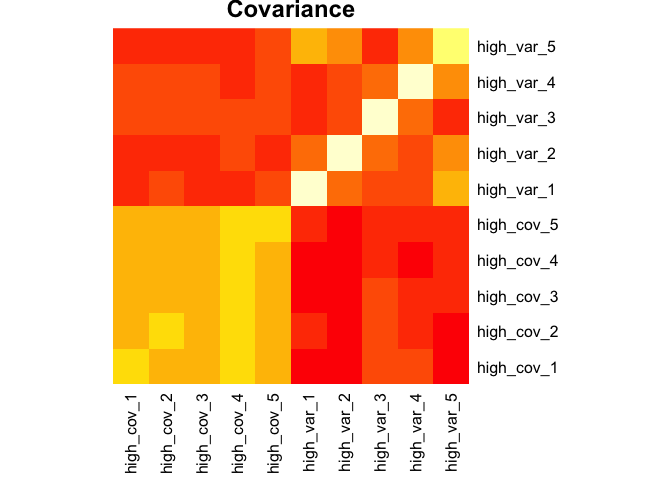
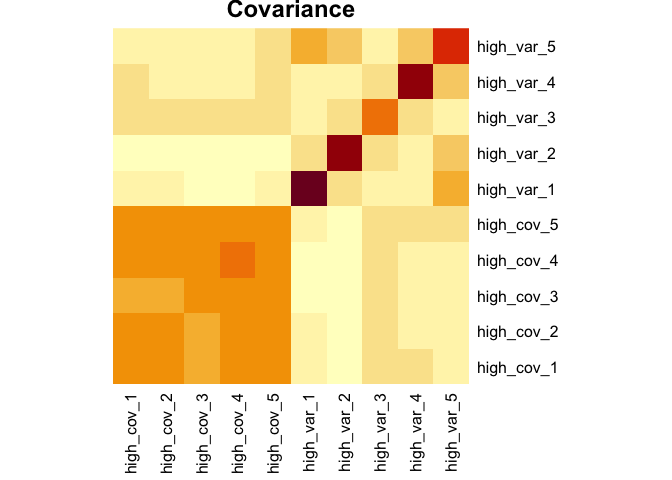
minor changes to readme

diff --git a/README.md b/README.md
@@ -28,8 +28,8 @@ install.packages("holodeck)
 Development version:
 
 ``` r
-# install.packages("devtools")
-devtools::install_github("Aariq/holodeck")
+# install.packages("remotes")
+remotes::install_github("Aariq/holodeck")
 ```
 
 ## Load packages
@@ -69,15 +69,10 @@ Explore covariance structure visually. The diagonal is variance.
 ``` r
 df1 %>% 
   cov() %>%
-  heatmap(Rowv = NA, Colv = NA, margins = c(6,6), main = "Covariance")
+  heatmap(Rowv = NA, Colv = NA, symm = TRUE, margins = c(6,6), main = "Covariance")
 ```
 
 <img src="man/figures/README-unnamed-chunk-2-1.png" width="100%" />
-
-``` r
-#for interactive heatmap, try iheatmapr package:
-  # iheatmap(row_labels = TRUE, col_labels = TRUE, name = "cov or var")
-```
 
 Now let’s make this dataset a little more complex. We can add a factor
 variable, some variables that discriminate between the levels of that
@@ -101,22 +96,22 @@ df2
 #>  2 a          -1.50    -1.65       NA         -1.93       -1.27      1.00  
 #>  3 a           1.13     0.655       0.980      1.41        0.345    -1.90  
 #>  4 a           0.982    0.740       1.16       1.14        0.866     1.71  
-#>  5 a          -0.773   -1.31       -1.22      -1.21       -1.25     -0.576 
-#>  6 a           0.302   NA          -0.309      0.0725      0.725     2.25  
-#>  7 a          NA        0.00163     0.0596    -0.542      -0.269     2.87  
-#>  8 b           2.16     2.47        1.38      NA          NA         0.146 
-#>  9 b          NA       NA          -0.529     -0.842      -1.04     NA     
+#>  5 a          -0.773   NA          -1.22      -1.21       -1.25     -0.576 
+#>  6 a           0.302    0.130      -0.309      0.0725     NA        NA     
+#>  7 a          -0.117    0.00163     0.0596    -0.542      -0.269     2.87  
+#>  8 b           2.16     2.47       NA          1.62       NA         0.146 
+#>  9 b          -0.268   -0.509      -0.529     -0.842      -1.04     NA     
 #> 10 b           0.609    0.195       0.720      0.930       0.595     0.0765
-#> 11 b           1.81     1.15        1.43       1.09        1.39     -0.927 
+#> 11 b           1.81    NA           1.43       1.09        1.39     -0.927 
 #> 12 b           0.954    0.234       0.247      0.248       0.751     2.77  
-#> 13 b          -1.03    -1.24       -1.70      -1.27       -1.64      1.34  
-#> 14 b          -0.180   NA           0.177      0.433      NA         1.20  
+#> 13 b          -1.03    -1.24       -1.70      NA          -1.64      1.34  
+#> 14 b          -0.180    0.380       0.177      0.433       0.550     1.20  
 #> 15 c          -0.214   -0.390      -0.476     -0.878      -0.328     3.18  
-#> 16 c           0.827    0.556       0.620      0.491       0.814     1.91  
-#> 17 c          -0.399   -0.862      -0.385     -0.935      NA        -0.787 
-#> 18 c          -1.09    NA          -0.720     -1.88       -1.76     -1.76  
-#> 19 c          -0.181   -0.155      -0.774      0.0395     NA         0.741 
-#> 20 c           0.882    0.366       0.758      1.24        0.838     0.182 
+#> 16 c           0.827    0.556       0.620      0.491      NA         1.91  
+#> 17 c          -0.399   -0.862      -0.385     -0.935      -0.802    -0.787 
+#> 18 c          -1.09    -1.32       -0.720     NA          -1.76     -1.76  
+#> 19 c          -0.181   -0.155      -0.774      0.0395     -0.770     0.741 
+#> 20 c           0.882   NA           0.758      1.24        0.838     0.182 
 #> # … with 14 more variables: high_var_2 <dbl>, high_var_3 <dbl>,
 #> #   high_var_4 <dbl>, high_var_5 <dbl>, discr_1 <dbl>, discr_2 <dbl>,
 #> #   discr_3 <dbl>, discr_4 <dbl>, discr_5 <dbl>, discr2_1 <dbl>,
@@ -127,36 +122,43 @@ df2
 
 ``` r
 pca <- opls(select(df2, -factor), printL = FALSE, plotL = FALSE)
+#> Warning: 'printL' argument is deprecated; use 'info.txtC' instead
+#> Warning: 'plotL' argument is deprecated; use 'fig.pdfC' instead
   
 plot(pca, parAsColFcVn = df2$factor, typeVc = "x-score")
 #> Warning: Character 'parAsColFcVn' set to a factor
+```
+
+<img src="man/figures/README-unnamed-chunk-4-1.png" width="100%" />
+
+``` r
 
 getLoadingMN(pca) %>%
   as_tibble(rownames = "variable") %>% 
   arrange(desc(abs(p1)))
 #> # A tibble: 20 x 4
-#>    variable         p1       p2        p3
-#>    <chr>         <dbl>    <dbl>     <dbl>
-#>  1 high_cov_3  0.444   -0.0223  -0.0178  
-#>  2 high_cov_4  0.412    0.0233   0.0301  
-#>  3 high_cov_1  0.403    0.0335  -0.0248  
-#>  4 high_cov_5  0.389    0.00518 -0.00792 
-#>  5 high_cov_2  0.372    0.00949 -0.000838
-#>  6 discr2_1    0.225   -0.0295   0.487   
-#>  7 high_var_2 -0.201   -0.140   -0.0215  
-#>  8 discr_1    -0.180   -0.309    0.0888  
-#>  9 discr2_4    0.124   -0.230   -0.235   
-#> 10 discr_5     0.121   -0.418   -0.00171 
-#> 11 high_var_3  0.121    0.0872  -0.208   
-#> 12 discr_4    -0.0761  -0.402    0.0376  
-#> 13 high_var_5 -0.0535  -0.00698 -0.393   
-#> 14 high_var_4  0.0457  -0.110   -0.544   
-#> 15 discr2_3    0.0330  -0.198   -0.00447 
-#> 16 discr_2     0.0207  -0.373    0.111   
-#> 17 high_var_1 -0.0199   0.0715  -0.0182  
-#> 18 discr2_2   -0.00666  0.182   -0.419   
-#> 19 discr2_5    0.00402 -0.324   -0.0749  
-#> 20 discr_3     0.00217 -0.389   -0.0967
+#>    variable         p1      p2       p3
+#>    <chr>         <dbl>   <dbl>    <dbl>
+#>  1 high_cov_1  0.377    0.194   0.0800 
+#>  2 high_cov_4  0.375    0.215   0.0202 
+#>  3 high_cov_3  0.368    0.225   0.133  
+#>  4 high_cov_5  0.362    0.186  -0.0539 
+#>  5 high_cov_2  0.348    0.227   0.0108 
+#>  6 discr_1    -0.306    0.219   0.0135 
+#>  7 discr2_1    0.290    0.0895 -0.322  
+#>  8 discr_4    -0.220    0.329  -0.120  
+#>  9 high_var_3  0.169   -0.142   0.184  
+#> 10 discr_3    -0.157    0.324  -0.176  
+#> 11 discr2_5   -0.153    0.242   0.318  
+#> 12 discr_2    -0.116    0.350  -0.210  
+#> 13 discr2_4   -0.0572   0.212   0.292  
+#> 14 discr2_2    0.0518  -0.133  -0.0374 
+#> 15 discr2_3   -0.0513   0.0717  0.00649
+#> 16 high_var_2 -0.0512  -0.0938 -0.442  
+#> 17 discr_5    -0.0448   0.424  -0.0118 
+#> 18 high_var_4 -0.0236   0.220   0.0444 
+#> 19 high_var_5  0.00619  0.0503 -0.434  
+#> 20 high_var_1 -0.00483 -0.0231 -0.414
 ```
 
 It looks like PCA mostly picks up on the variables with high covariance,
@@ -168,8 +170,15 @@ analysis.
 
 ``` r
 plsda <- opls(select(df2, -factor), df2$factor, printL = FALSE, plotL = FALSE, predI = 2)
+#> Warning: 'printL' argument is deprecated; use 'info.txtC' instead
+#> Warning: 'plotL' argument is deprecated; use 'fig.pdfC' instead
 
 plot(plsda, typeVc = "x-score")
+```
+
+<img src="man/figures/README-unnamed-chunk-5-1.png" width="100%" />
+
+``` r
 
 getVipVn(plsda) %>% 
   tibble::enframe(name = "variable", value = "VIP") %>% 
@@ -177,26 +186,26 @@ getVipVn(plsda) %>%
 #> # A tibble: 20 x 2
 #>    variable     VIP
 #>    <chr>      <dbl>
-#>  1 discr_5    1.76 
-#>  2 discr_2    1.64 
-#>  3 discr_4    1.58 
-#>  4 discr_3    1.50 
-#>  5 discr_1    1.30 
-#>  6 discr2_5   1.16 
-#>  7 discr2_4   1.05 
-#>  8 high_cov_2 0.995
-#>  9 high_var_5 0.989
-#> 10 high_cov_1 0.872
-#> 11 discr2_3   0.819
-#> 12 discr2_2   0.727
-#> 13 high_var_2 0.680
-#> 14 high_var_3 0.494
-#> 15 discr2_1   0.469
-#> 16 high_cov_3 0.450
-#> 17 high_cov_4 0.406
-#> 18 high_var_4 0.203
-#> 19 high_var_1 0.202
-#> 20 high_cov_5 0.105
+#>  1 discr_5    1.73 
+#>  2 discr_2    1.66 
+#>  3 discr_4    1.56 
+#>  4 discr_3    1.51 
+#>  5 discr_1    1.46 
+#>  6 discr2_5   1.06 
+#>  7 discr2_3   0.986
+#>  8 discr2_4   0.935
+#>  9 high_cov_4 0.817
+#> 10 high_cov_2 0.749
+#> 11 high_cov_1 0.734
+#> 12 high_var_3 0.725
+#> 13 discr2_2   0.702
+#> 14 high_var_4 0.697
+#> 15 high_cov_5 0.671
+#> 16 discr2_1   0.629
+#> 17 high_cov_3 0.328
+#> 18 high_var_1 0.327
+#> 19 high_var_5 0.276
+#> 20 high_var_2 0.199
 ```
 
 PLS-DA, a supervised analysis, finds discrimination among groups and
